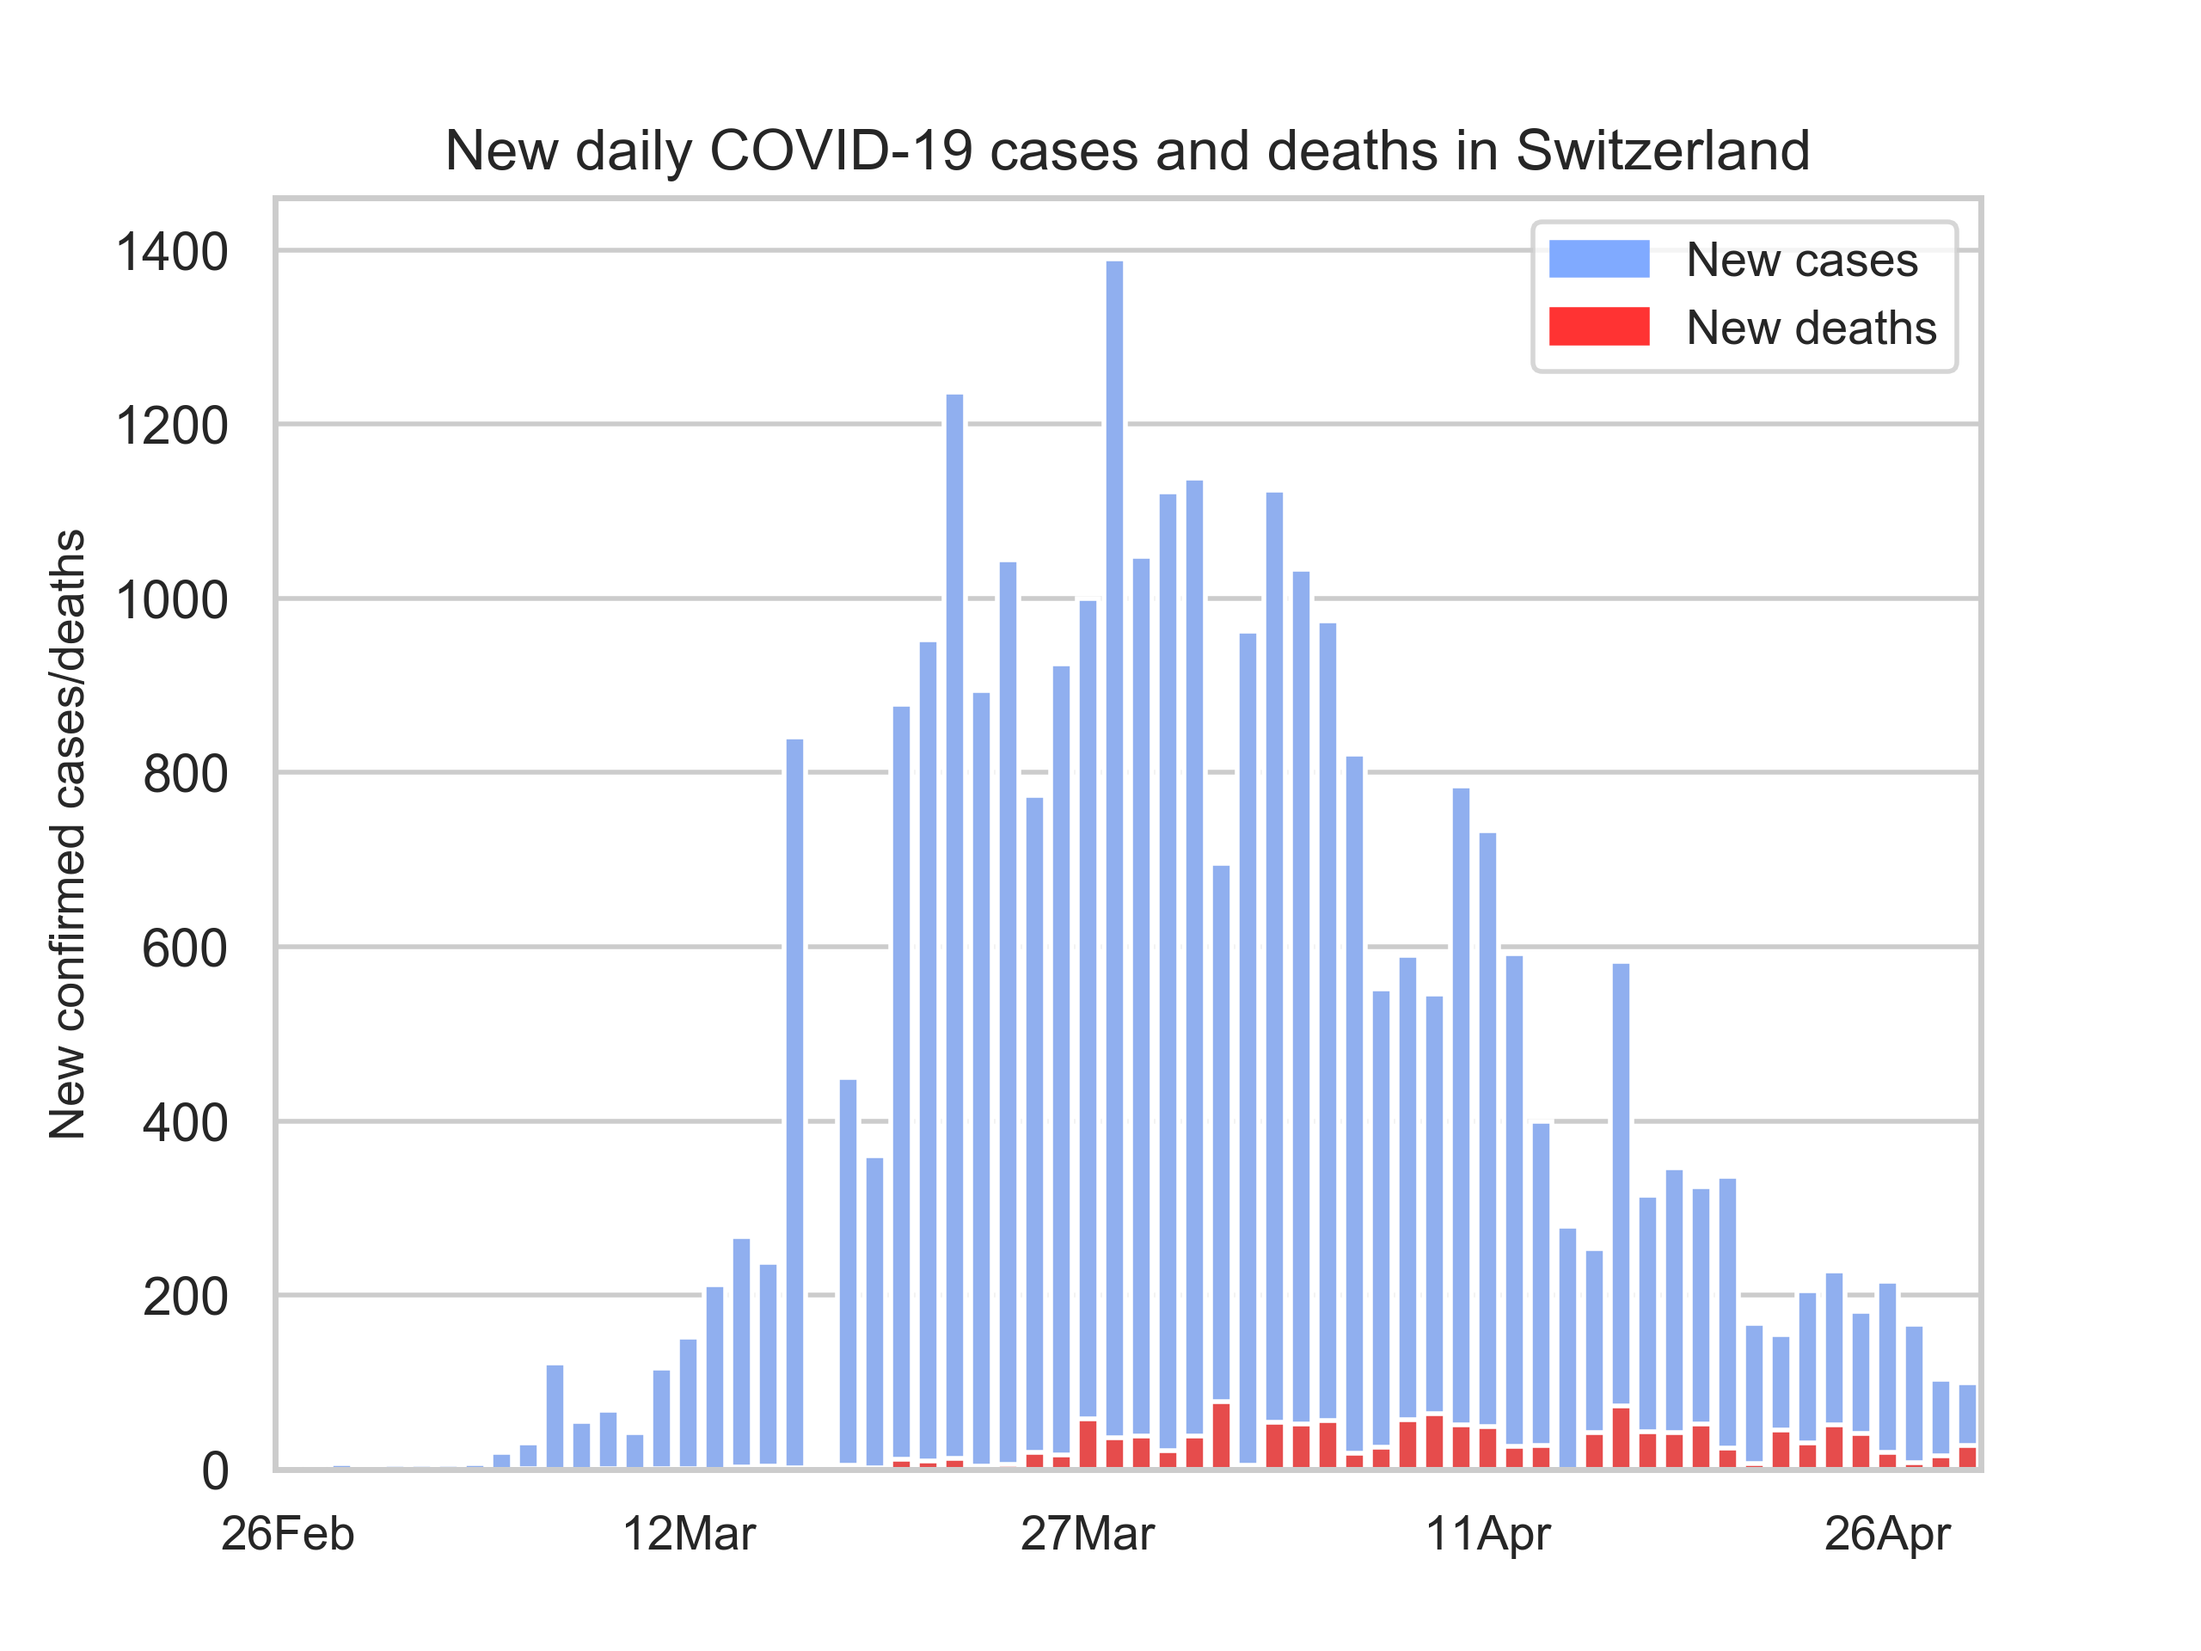
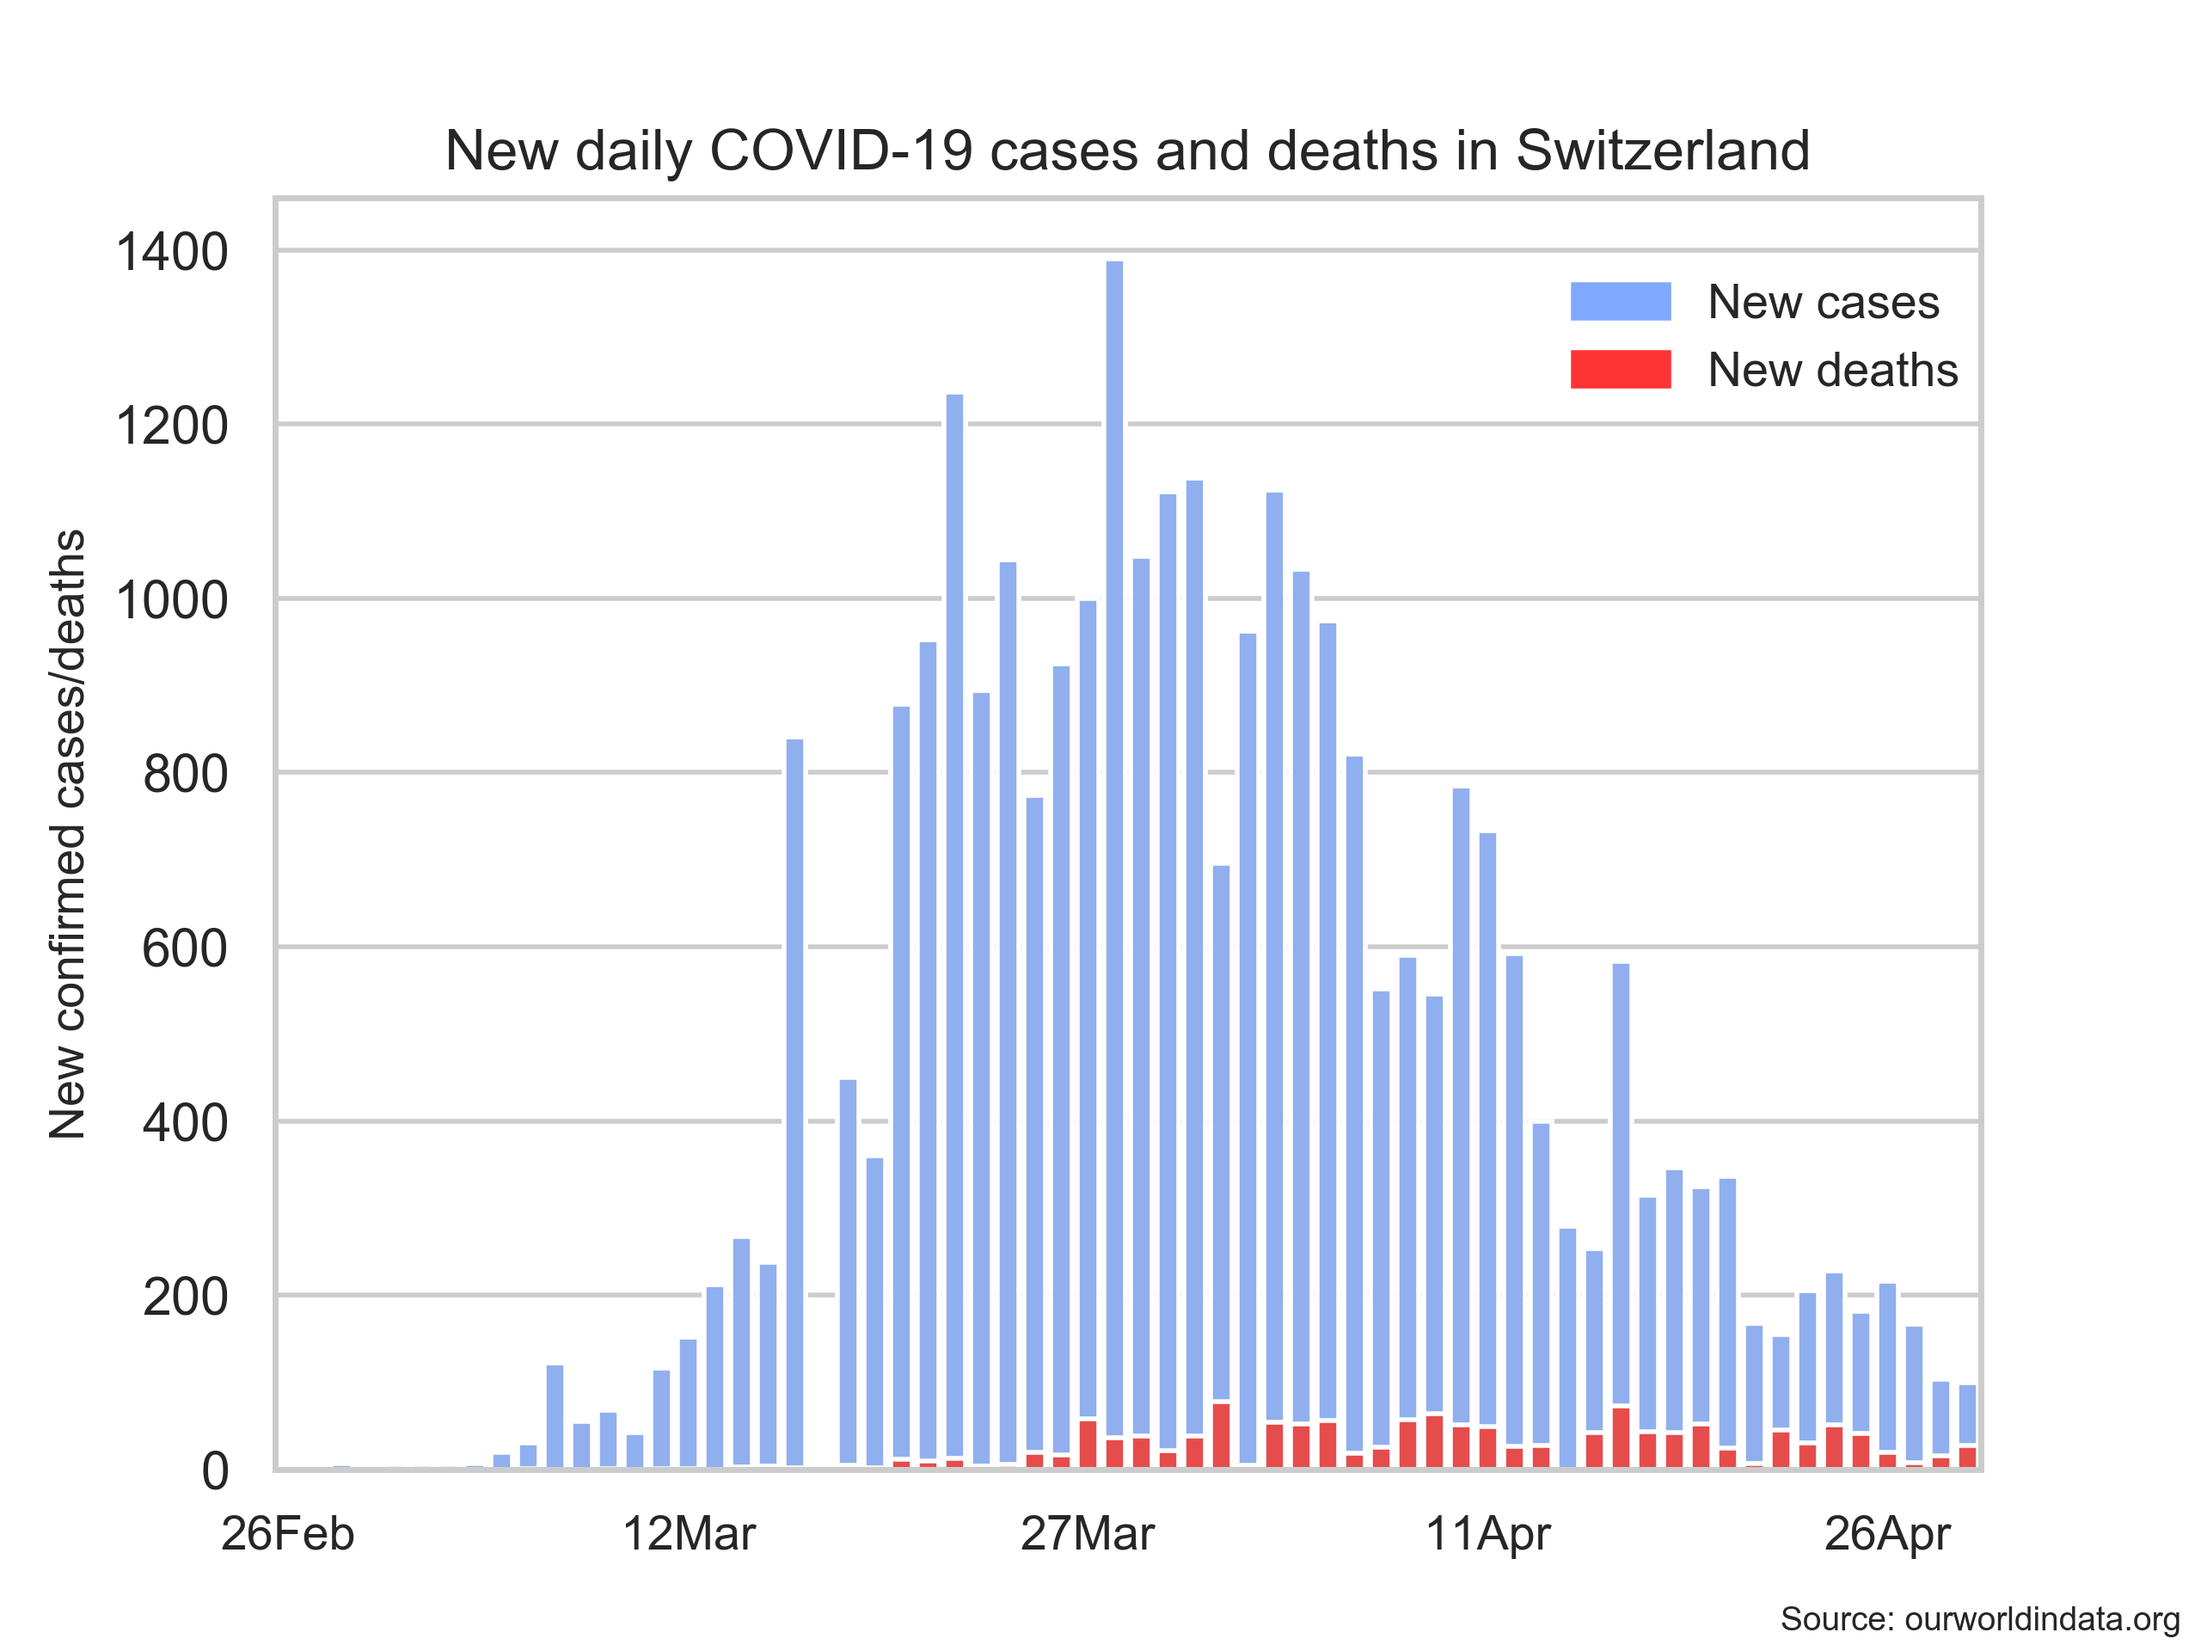
up

Changed region(s): [[0.6875, 0.125, 0.9062, 0.25], [0.8125, 0.9688, 1.0, 1.0]]

diff --git a/peter_work_in_progress/new_daily_cases_deaths.py b/peter_work_in_progress/new_daily_cases_deaths.py
@@ -18,7 +18,7 @@ ax.set_xticklabels([dates[ind] for ind in range(0,len(data['date']),15)], fontsi
 ax.set_xlabel('', fontsize=0)
 ax.set_ylabel('New confirmed cases/deaths', fontsize=10)
 
-lgd = ax.legend(fontsize=10)
+lgd = ax.legend(fontsize=10, frameon=False, loc=(0.75,0.83))
 
 def add_patch(legend):
     from matplotlib.patches import Patch
@@ -35,5 +35,11 @@ def add_patch(legend):
     legend.set_title(legend.get_title().get_text())
 
 add_patch(lgd)
+
+plt.text(1, -0.12, 'Source: ourworldindata.org',
+         horizontalalignment='center',
+         verticalalignment='center', transform=ax.transAxes, size=7)
+
+
 
 plt.savefig('new_daily_cases_deaths.png', dpi=400)
